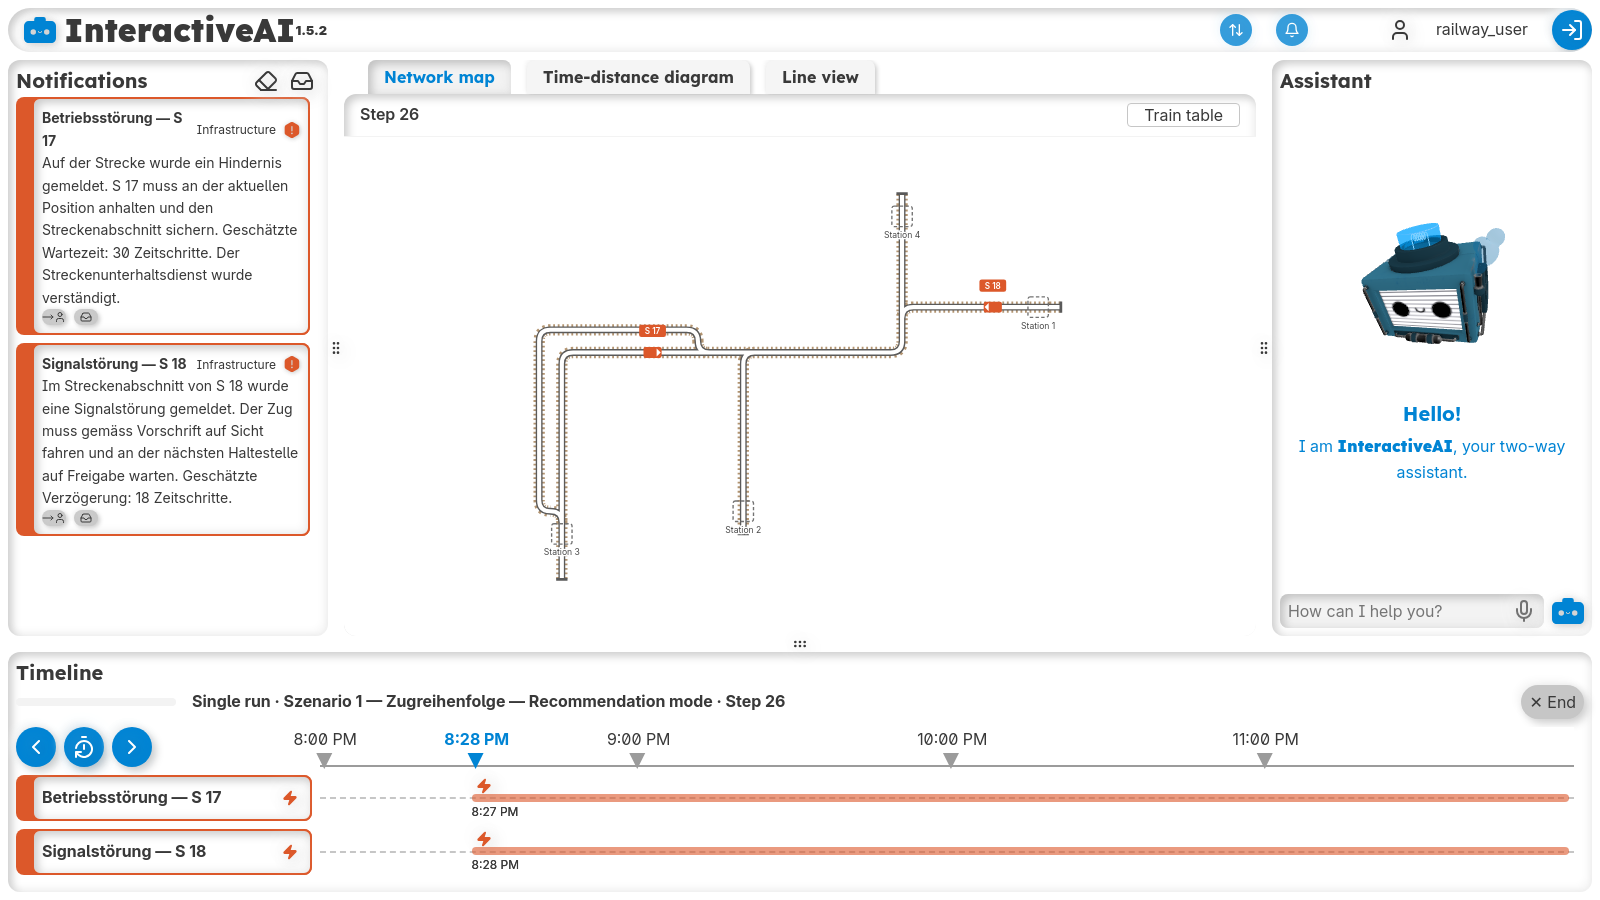
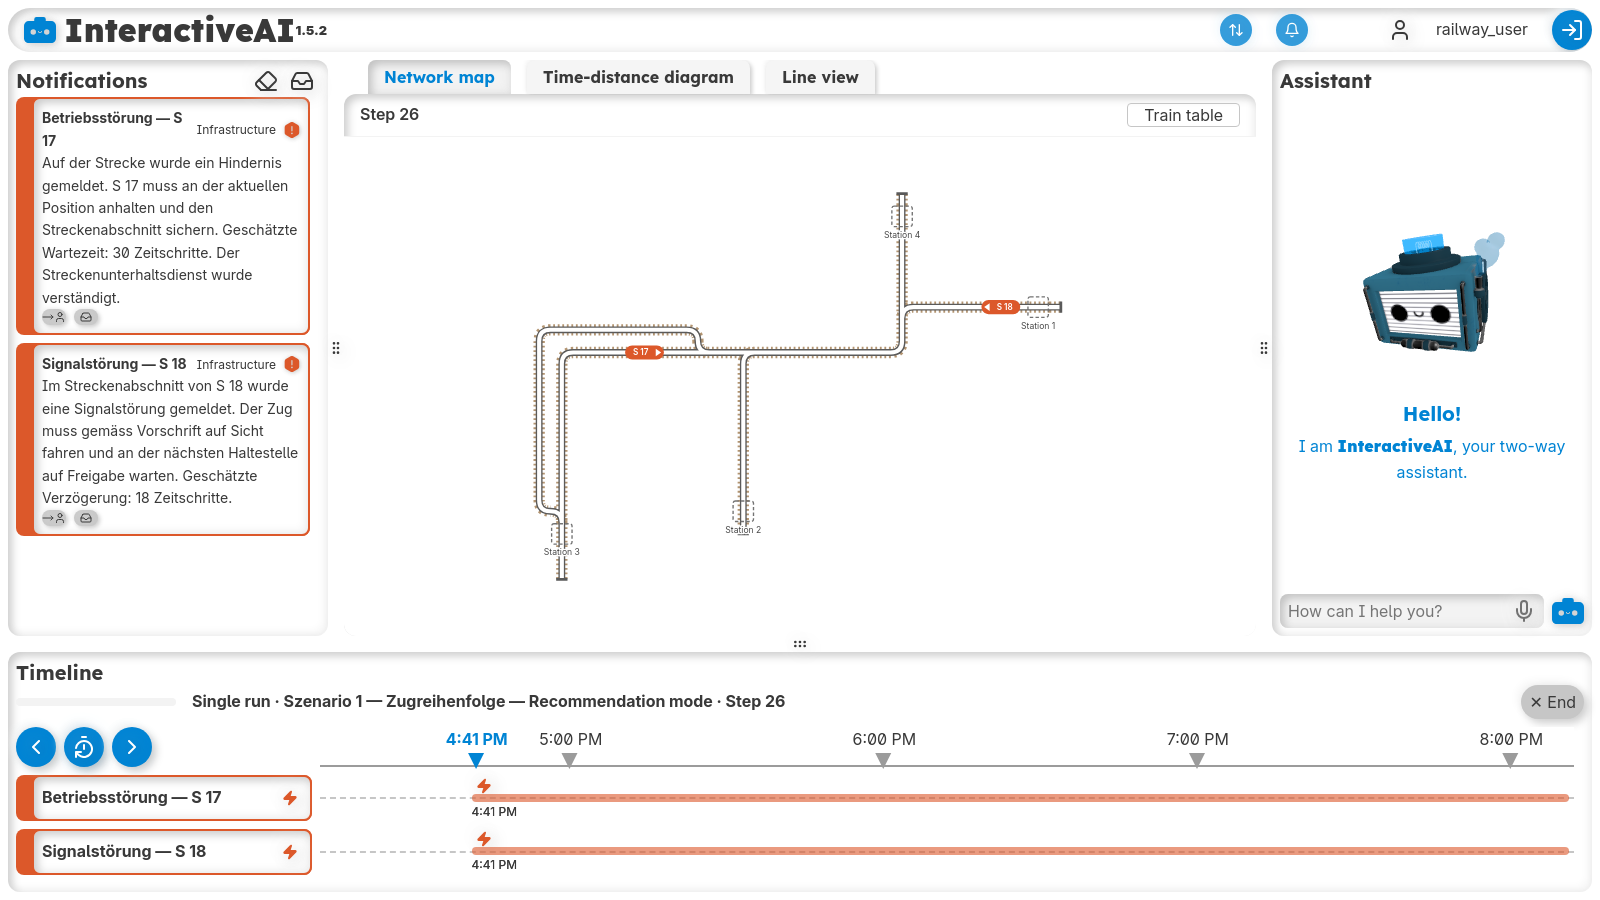
feat(railway): write each train's name on its symbol and point it in its direction
In the Kartenansicht each train is a pill along its track, as long as its
name needs (about 2-3 cells), with the name inside and a "▶" at its front
in the direction it runs; north and south trains stand upright, so the
name is never upside down. The tag above the train is gone, and with it
the "+delay" label that arrived trains, which are not drawn, never showed.
Held trains stay red, highlighted ones keep their orange outline. Shots
04-map, 06-status and 14-compare are refreshed.

diff --git a/frontend/src/entities/Railway/CAB/NetworkMap.vue b/frontend/src/entities/Railway/CAB/NetworkMap.vue
@@ -33,26 +33,21 @@
       :class="{ failure: train.failure, highlighted: highlighted?.includes(train.id_train) }"
       :data-train="train.id_train">
       <g
-        :transform="`translate(${train.x} ${train.y}) rotate(${headingAngle(train.direction ?? 0)})`">
+        :transform="`translate(${train.x + train.symbol.dx} ${train.y + train.symbol.dy}) rotate(${train.symbol.rotate})`"
+        class="symbol">
         <rect
-          :x="-S * 0.24"
-          :y="-S * 0.4"
-          :width="S * 0.48"
-          :height="S * 0.8"
-          :rx="S * 0.08"
+          :x="-train.symbol.length / 2"
+          :y="-train.symbol.height / 2"
+          :width="train.symbol.length"
+          :height="train.symbol.height"
+          :rx="train.symbol.height / 2"
           :fill="train.color" />
         <path
-          :d="`M${-S * 0.18} ${-S * 0.18}L0 ${-S * 0.36}L${S * 0.18} ${-S * 0.18}Z`"
+          :d="`M${train.symbol.front * (train.symbol.length / 2 - S * 0.12)} 0L${train.symbol.front * (train.symbol.length / 2 - S * 0.36)} ${-S * 0.17}L${train.symbol.front * (train.symbol.length / 2 - S * 0.36)} ${S * 0.17}Z`"
           class="heading" />
-      </g>
-      <g :transform="`translate(${train.x} ${train.y - S * 0.95})`" class="label">
-        <rect
-          :x="-train.labelWidth / 2"
-          :y="-S * 0.27"
-          :width="train.labelWidth"
-          :height="S * 0.54"
-          :rx="S * 0.1" />
-        <text :font-size="S * 0.36" dominant-baseline="central">{{ train.label }}</text>
+        <text :x="-train.symbol.front * S * 0.17" :font-size="S * 0.36" dominant-baseline="central">
+          {{ train.label }}
+        </text>
       </g>
     </g>
   </svg>
@@ -61,7 +56,7 @@
 import { computed } from 'vue'
 
 import { trainColor } from '../colors'
-import { edgePoint, headingAngle, piecePath, pieces, trackBounds } from '../grid'
+import { edgePoint, piecePath, pieces, trackBounds, trainSymbol } from '../grid'
 import type { Cell, Railway } from '../types'
 
 /** Kartenansicht: the scenario's track network and the trains, from the latest context (F7–F11). */
@@ -77,8 +72,9 @@ const infra = computed(() => props.context.infra!)
 
 const viewBox = computed(() => {
   const { top, left, bottom, right } = trackBounds(infra.value.grid)
-  // one cell of margin, two above for the train labels, one below for the station names
-  return [(left - 1) * S, (top - 2) * S, (right - left + 3) * S, (bottom - top + 5) * S].join(' ')
+  // two cells of margin, for a train symbol reaching back beyond the last track cell, and the
+  // station names below
+  return [(left - 2) * S, (top - 2) * S, (right - left + 5) * S, (bottom - top + 5) * S].join(' ')
 })
 
 const tracks = computed(() =>
@@ -117,15 +113,13 @@ const trains = computed(() =>
     .filter(({ train }) => train.position && !train.done)
     .map(({ train, color }) => {
       const [r, c] = train.position as Cell
-      const label =
-        train.failure && train.delay
-          ? `${train.name} +${train.delay}`
-          : train.name ?? train.id_train
+      const label = train.name ?? train.id_train
       return {
         ...train,
         color,
         label,
-        labelWidth: S * (0.3 + 0.22 * label.length),
+        // the name on the symbol, a "▶" at its front in the running direction
+        symbol: trainSymbol(train.direction ?? 0, label, S),
         x: c * S + S / 2,
         y: r * S + S / 2
       }
@@ -173,25 +167,15 @@ const trains = computed(() =>
     .heading {
       fill: #fff;
     }
-    .label {
-      rect {
-        fill: #333;
-      }
-      text {
-        fill: #fff;
-        text-anchor: middle;
-        font-weight: 600;
-      }
+    text {
+      fill: #fff;
+      text-anchor: middle;
+      font-weight: 600;
     }
-    &.failure {
-      rect:first-child {
-        fill: var(--color-red-500);
-      }
-      .label rect {
-        fill: var(--color-red-500);
-      }
+    &.failure .symbol rect {
+      fill: var(--color-red-500);
     }
-    &.highlighted > g:first-child rect {
+    &.highlighted .symbol rect {
       stroke: var(--color-orange-500);
       stroke-width: 1.5;
     }

diff --git a/frontend/src/entities/Railway/__tests__/grid.spec.ts b/frontend/src/entities/Railway/__tests__/grid.spec.ts
@@ -1,6 +1,6 @@
 import { describe, expect, it } from 'vitest'
 
-import { headingAngle, piecePath, pieces, trackBounds, transitions } from '../grid'
+import { piecePath, pieces, trackBounds, trainSymbol,transitions } from '../grid'
 
 // Flatland's own values (flatland.core.grid.rail_env_grid.RailEnvTransitions)
 const HORIZONTAL = 1025 // east-west straight
@@ -73,8 +73,29 @@ describe('trackBounds', () => {
   })
 })
 
-describe('headingAngle', () => {
-  it('turns north by quarter turns', () => {
-    expect([0, 1, 2, 3].map(headingAngle)).toEqual([0, 90, 180, 270])
+describe('trainSymbol', () => {
+  it('grows with the name and keeps its front at the front edge of the cell', () => {
+    const east = trainSymbol(1, 'S 17', 10)
+    expect(east.length).toBeCloseTo(17.1)
+    expect(east.length).toBeGreaterThan(trainSymbol(1, 'G 3', 10).length)
+    // centre + half the length = the cell's east edge (half a cell from its centre)
+    expect(east.dx + east.length / 2).toBeCloseTo(5)
+    expect([east.rotate, east.front, east.dy]).toEqual([0, 1, 0])
+  })
+
+  it('points the other way on the same axis without turning the name upside down', () => {
+    const west = trainSymbol(3, 'S 17', 10)
+    expect([west.rotate, west.front]).toEqual([0, -1])
+    expect(west.dx - west.length / 2).toBeCloseTo(-5)
+  })
+
+  it('stands upright for north and south, the name read bottom to top', () => {
+    const north = trainSymbol(0, 'IC 3', 10)
+    expect([north.rotate, north.front, north.dx]).toEqual([-90, 1, 0])
+    // the front at the cell's north edge: y grows downwards
+    expect(north.dy - north.length / 2).toBeCloseTo(-5)
+    const south = trainSymbol(2, 'IC 3', 10)
+    expect([south.rotate, south.front]).toEqual([-90, -1])
+    expect(south.dy + south.length / 2).toBeCloseTo(5)
   })
 })

diff --git a/frontend/src/entities/Railway/grid.ts b/frontend/src/entities/Railway/grid.ts
@@ -80,5 +80,21 @@ export function trackBounds(grid: number[][]) {
   return { top, left, bottom, right }
 }
 
-/** Rotation in degrees of something pointing north, to point along heading `direction`. */
-export const headingAngle = (direction: number) => (((direction % 4) + 4) % 4) * 90
+/**
+ * A train's symbol on the Kartenansicht: a pill along the track with the name inside and a "▶" at
+ * its front. The front sits at the front edge of the train's cell, the pill reaches back along the
+ * heading as far as the name needs (about 2–3 cells). Returned in the pill's own frame: `x` is the
+ * centre's shift from the cell centre, `rotate` turns the frame (0 east-west, -90 north-south, so
+ * the name always reads left to right or bottom to top), `front` is +1 when the front is at the
+ * frame's +x end and -1 when at its -x end.
+ */
+export function trainSymbol(direction: number, label: string, size: number) {
+  const heading = (((direction % 4) + 4) % 4) as Edge
+  const length = size * (0.75 + 0.24 * label.length)
+  const front = heading === 0 || heading === 1 ? 1 : -1
+  const vertical = heading === 0 || heading === 2
+  // centre: from the cell's front edge half a pill back
+  const along = size / 2 - length / 2
+  const [dx, dy] = vertical ? [0, -front * along] : [front * along, 0]
+  return { length, height: size * 0.62, front, rotate: vertical ? -90 : 0, dx, dy }
+}

diff --git a/frontend/cypress/e2e/railway.cy.ts b/frontend/cypress/e2e/railway.cy.ts
@@ -163,6 +163,9 @@ describe('Railway page', () => {
     // S 17 departs at step 1, S 18 at step 22; the context of every N steps brings them on the map
     cy.get('.railway-network [data-train="Train_1"]', { timeout: 40000 }).should('exist')
     cy.contains('.railway-network text', 'Station 1').should('exist')
+    // each train's name on its symbol, a triangle at its front
+    cy.contains('.railway-network [data-train="Train_0"] text', 'S 17').should('exist')
+    cy.get('.railway-network [data-train="Train_0"] .heading').should('exist')
     cy.screenshot('04-map', { capture: 'viewport' })
   })
 

diff --git a/CHANGELOG.md b/CHANGELOG.md
@@ -21,6 +21,7 @@
 - Railway simulator: a `Dockerfile` and its own `docker-compose.yml` run it next to the platform, always on and idle until a participant starts the Experiment; the frontend image is built with `VITE_RAILWAY_SIMU=/railway-simu`. The users service loads the `cabProcess` perimeter of the Dispatcher, Planner and Supervisor groups from its config, so `railway_user` gets its cards on a fresh database without `loadTestConf.sh`.
 - Railway: the feed shows only the running scenario's cards, so each scenario of the Experiment starts with an empty feed; cards of other publishers stay. The timeline still lists the earlier runs' cards.
 - Railway: the train table shows where each train comes from and goes to ("Von", "Nach").
+- Railway: in the Kartenansicht each train is drawn along its track with its name on it and a "▶" at its front in the direction it runs; the tag above the train is gone.
 
 ### Fixed
 
